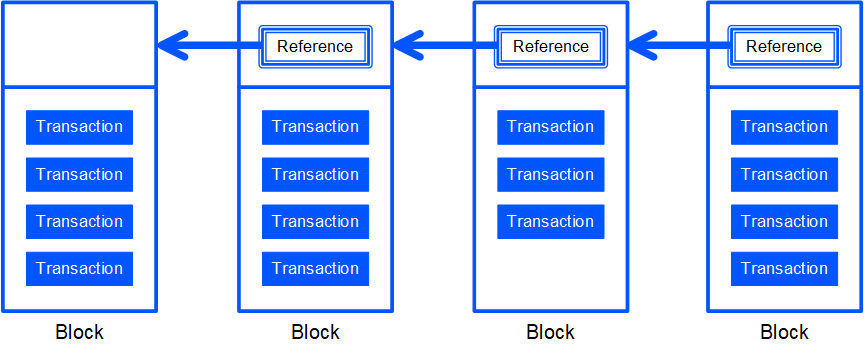
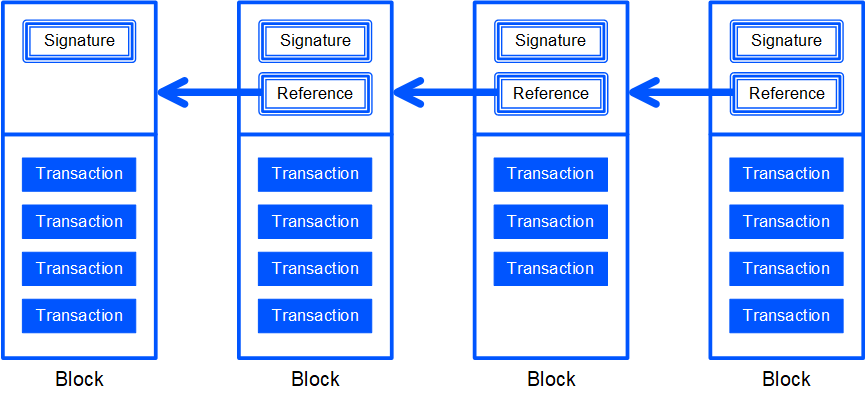
DOC-659

diff --git a/docs/_ru-sidebar-tree.js b/docs/_ru-sidebar-tree.js
@@ -12,13 +12,13 @@ const keepInTouchPath = localePath + 'keep-in-touch/';
 module.exports = {
   [blockchainPath]: [
     {
-      title: 'О блокчейне Waves',
+      title: 'O Waves',
       path: blockchainPath,
     },
-/*    {
-      title: 'Что такое блокчейн',
+    {
+      title: 'Как устроен блокчейн',
       path: blockchainPath + 'blockchain',
-    }, */
+    },
     {
       title: 'Аккаунт',
       path: blockchainPath + 'account',

diff --git a/docs/_en-sidebar-tree.js b/docs/_en-sidebar-tree.js
@@ -12,13 +12,13 @@ const keepInTouchPath = localePath + 'keep-in-touch/';
 module.exports = {
   [blockchainPath]: [
     {
-      title: 'About Waves blockchain',
+      title: 'Why Waves',
       path: blockchainPath,
     },
-/*    {
-      title: 'Blockchain intoduction',
+    {
+      title: 'Waves Basics',
       path: blockchainPath + 'blockchain',
-    }, */
+    },
     {
       title: 'Account',
       path: blockchainPath + 'account',

diff --git a/docs/ru/blockchain/blockchain/readme.md b/docs/ru/blockchain/blockchain/readme.md
@@ -6,24 +6,28 @@
 
 Данные на блокчейне представлены в виде транзакций — записей о действиях, таких как выпуск или перевод криптовалюты, создание или вызов смарт-контракта и т. д.
 
-Транзакции сгруппированы в блоки, и каждый блок содержит хеш данных предыдущего блока. Таким образом, блокчейн состоит из цепочки блоков, связанных с помощью криптографии. Транзакции навсегда остаются в блокчейне в первозданном виде: изменение данных одной транзакции нарушило бы целостность данных в блоке и всех последующих блоках.
+Транзакции сгруппированы в блоки. Кроме транзакций, блок содержит цифровую подпись ноды, которая сгенерировала блок, и хеш данных предыдущего блока — который, в свою очередь, содержит хеш данных предшествующего ему блока, и т. д. Таким образом, блокчейн состоит из цепочки блоков, связанных с помощью криптографии. Каждая транзакция навсегда остается на блокчейне в первозданном виде: изменение транзакции сделало бы невалидным содержащий ее блок и все последующие блоки.
 
 ![](./_assets/blockchain.png)
 
-## Ноды 
+## Ноды
 
-Сеть Waves состоит из сотен нод по всему миру. Нода — компьютер, обслуживающий блокчейн — хранит полную копию блокчейна, проверяет валидность всех транзакций и блоков и синхронизирует данные с другими нодами. Таким образом, данные блокчейна защищены от подделки и от удаления. Запустить свою ноду и присоединиться к сети может любой желающий.
+Сеть Waves состоит из сотен нод по всему миру. Нода — это компьютер, обслуживающий сеть блокчейна. Нода Waves хранит полную копию блокчейна, проверяет валидность всех транзакций и блоков, правильность вычисления хешей и синхронизирует данные с другими нодами. Благодаря этому данные блокчейна защищены от подделки и от удаления. [Запустить свою ноду](/ru/waves-node/how-to-install-a-node/how-to-install-a-node) и присоединиться к сети может любой желающий.
 
 ![](./_assets/nodes-worldwide.png)
 
-Ноды могут участвовать в генерации новых блоков и получать вознаграждение за создание блока и комиссии за транзакции. Чтобы начать генерировать блоки, необходим баланс не менее 1000 WAVES — собственных или полученных в лизинг.
+Ноды могут участвовать в генерации новых блоков и получать [вознаграждение за создание блока](/ru/blockchain/mining/mining-reward) и комиссии за транзакции. Чтобы начать генерировать блоки, необходим баланс не менее 1000 WAVES — собственных или [полученных в лизинг](/ru/blockchain/leasing). Чем больше генерирующий баланс ноды, тем больше шанс получить право на генерацию следующего блока.
 
 ## Аккаунт
 
-Каждая транзакция на блокчейне Waves создается от имени какого-либо аккаунта. У аккаунта есть пара ключей, связанных с помощью криптографии: закрытый ключ, которым аккаунт подписывает транзакции, и открытый ключ, который позволяет проверить достоверность подписи. Для создания аккаунта, хранения ключей и подписания транзакций можно использовать приложения — [Waves.Exchange](https://waves.exchange/), разработанное командой Waves.Exchange, или [Waves Keeper](/ru/ecosystem/waves-keeper/).
+Waves использует модель на основе аккаунта. Каждая транзакция создается от имени какого-либо аккаунта, все активы и данные связаны с аккаунтом. У аккаунта есть пара ключей, связанных с помощью криптографии: закрытый ключ, которым аккаунт подписывает транзакции, и открытый ключ, который позволяет проверить достоверность подписи. [Подробнее об аккаунте](/ru/blockchain/account/)
 
-У аккаунта также есть адрес, на который можно перевести WAVES и другие токены.
+Для создания аккаунта, хранения ключей и подписания транзакций можно использовать приложения: [Waves.Exchange](https://waves.exchange/) — приложение-кошелек, разработанное командой Waves.Exchange, [Waves Keeper](/ru/ecosystem/waves-keeper/) и другие.
+
+![](./_assets/interaction.png)
 
 ## dApp
 
-dApp — это приложение, бэкенд которого работает на блокчейне. Проще говоря, это онлайн-сервис на основе блокчейна. Поэтому нет централизованной базы данных, которую можно было бы взломать или поставить под угрозу. dApps сочетают в себе все преимущества онлайн-сервисов с полным контролем над вашими данными. Каждый может создавать и использовать dApps.
+dApp (decentralized application) — это приложение, бэкенд которого работает на блокчейне. Приложение может хранить на блокчейне данные, а также вызывать смарт-контракт — скрипт, прикрепленный к аккаунту. Преимущество децентрализованных приложений — в надежности хранения данных и прозрачности: любой пользователь может посмотреть код скрипта и результат его вызова.
+
+Чтобы узнать больше о технологиях Waves и получить практические навыки создания децентрализованных приложений, присоединяйтесь к бесплатному курсу [Mastering Web3 with Waves](https://www.coursera.org/learn/mastering-web3-waves) на платформе Coursera.

diff --git a/docs/ru/keep-in-touch/docs-update.md b/docs/ru/keep-in-touch/docs-update.md
@@ -1,10 +1,17 @@
 # Обновления в документации
 
-## Июльские статьи
+## Август
 
 ### Блокчейн Waves
 
-* Обновлена статья [Сети блокчейна: Mainnet, Testnet, Stagenet](/ru/blockchain/blockchain-network/).
+* [O Waves](/ru/blockchain/)
+* [Как устроен блокчейн](/ru/blockchain/blockchain)
+
+## Июль
+
+### Блокчейн Waves
+
+* [Сети блокчейна: Mainnet, Testnet, Stagenet](/ru/blockchain/blockchain-network/)  — <span style="color:green">обновлено</span>
 
 ### Ride
 
@@ -13,7 +20,7 @@
 * [removeByIndex](/ru/ride/functions/built-in-functions/list-functions#removebyindex)
 * [bn256groth16Verify](/ru/ride/functions/built-in-functions/verification-functions#bn256groth16verify)
 
-## Июньские статьи
+## Июнь
 
 ### Разработка приложений на блокчейне
 
@@ -33,7 +40,7 @@
 
 * [Кортеж](/ru/ride/data-types/tuple)
 
-## Майские статьи
+## Май
 
 ### Блокчейн
 
@@ -58,7 +65,7 @@
 * [makeString](/ru/ride/functions/built-in-functions/string-functions#makestring-list-string-string-string)
 * [Функции списка](/ru/ride/functions/built-in-functions/list-functions): `containsElement`, `indexOf`, `lastIndexOf`, `max`, `min`
 
-## Апрельские статьи
+## Апрель
 
 ### Блокчейн
 
@@ -73,7 +80,7 @@
 * [Распространение токена (airdrop)](/ru/building-apps/how-to/assets/airdrop)
 * [Прием платежей](/ru/building-apps/how-to/assets/payment)
 
-## Мартовские статьи
+## Март
 
 ### Блокчейн
 
@@ -94,7 +101,7 @@
 * [функций хеширования](/ru/ride/functions/built-in-functions/hashing-functions) `blake2b256`, `keccak256`, `sha256`;
 * [функций верификации](/ru/ride/functions/built-in-functions/verification-functions) `groth16Verify`, `rsaVerify`, `sigVerify`.
 
-## Февральские статьи
+## Февраль
 
 ### Разработка приложений на блокчейне
 
@@ -111,13 +118,13 @@
 * [calculateAssetId](/ru/ride/functions/built-in-functions/blockchain-functions#calculate)
 * [groth16Verify](/ru/ride/functions/built-in-functions/verification-functions#groth16Verify)
 
-## Январские статьи
+## Январь
 
 ### API & SDK
 
 * [Signer](/ru/building-apps/waves-api-and-sdk/client-libraries/signer) — библиотека для создания, подписания и отправки транзакций.
 
-## Декабрьские статьи
+## Декабрь
 
 ### Ride
 
@@ -154,7 +161,7 @@
   * Структуры транзакций
     * [UpdateAssetInfoTransaction](/ru/ride/structures/transaction-structures/update-asset-info-transaction)
 
-## Ноябрьские статьи
+## Ноябрь
 
 ### Программирование
 
@@ -162,7 +169,7 @@
 * [Создание смарт-аккаунта](/ru/building-apps/smart-contracts/how-to-create-smart-account)
 )
 
-## Октябрьские статьи
+## Октябрь
 
 ### Программирование
 
@@ -195,7 +202,7 @@
 
 * [Глоссарий](/ru/blockchain/glossary)
 
-## Сентябрьские статьи
+## Сентябрь
 
 ### Блокчейн
 

diff --git a/docs/en/keep-in-touch/docs-update.md b/docs/en/keep-in-touch/docs-update.md
@@ -1,10 +1,17 @@
 # Documentation Updates
 
-## July Articles
+## August
 
-### Blockchain Waves
+### Blockchain
 
-* Updated the [Blockchain Networks: Mainnet, Testnet, Stagenet](/en/blockchain/blockchain-network/) article.
+* [Why Waves](/en/blockchain/)
+* [Waves Basics](/en/blockchain/blockchain)
+
+## July
+
+### Blockchain
+
+* [Blockchain Networks: Mainnet, Testnet, Stagenet](/en/blockchain/blockchain-network/)  — <span style="color:green">updated</span>
 
 ### Building Apps
 
@@ -19,7 +26,7 @@ Added guides:
 * [removeByIndex](/en/ride/functions/built-in-functions/list-functions#removebyindex)
 * [bn256groth16Verify](/en/ride/functions/built-in-functions/verification-functions#bn256groth16verify)
 
-## June Articles
+## June
 
 ### Building Apps
 
@@ -39,7 +46,7 @@ Tools:
 
 * [Tuple](/en/ride/data-types/tuple)
 
-## May Articles
+## May
 
 ### Blockchain
 
@@ -63,7 +70,7 @@ Tools:
 * [makeString](/en/ride/functions/built-in-functions/string-functions#makestring-list-string-string-string)
 * [List functions](/en/ride/functions/built-in-functions/list-functions): `containsElement`, `indexOf`, `lastIndexOf`, `max`, `min`
 
-## April articles
+## April
 
 ### Blockchain
 
@@ -78,7 +85,7 @@ Added how-to guides:
 * [Airdrop](/en/building-apps/how-to/assets/airdrop)
 * [Receiving Payments](/en/building-apps/how-to/assets/payment)
 
-## March Articles
+## March
 
 ### Blockchain
 
@@ -99,7 +106,7 @@ Updated the the following descriptions:
 * [hashing functions](/en/ride/functions/built-in-functions/hashing-functions): `blake2b256`, `keccak256`, `sha256`;
 * [verification functions](/en/ride/functions/built-in-functions/verification-functions): `groth16Verify`, `rsaVerify`, `sigVerify`.
 
-## February Articles
+## February
 
 ### Building Apps
 
@@ -116,7 +123,7 @@ Added how-to guides:
 * [calculateAssetId](/en/ride/functions/built-in-functions/blockchain-functions#calculate)
 * [groth16Verify](/en/ride/functions/built-in-functions/verification-functions#groth16Verify)
 
-## December Articles
+## December
 
 ### Blockchain network
 
@@ -159,14 +166,14 @@ Added how-to guides:
 
 * [Signer](/en/building-apps/waves-api-and-sdk/client-libraries/signer)
 
-## November articles
+## November
 
 ### Smart contracts
 
 * [What is a Smart Account](/en/building-apps/smart-contracts/what-is-smart-account)
 * [Creating smart account](/en/building-apps/smart-contracts/how-to-create-smart-account)
 
-## October articles
+## October
 
 ### Programming
 
@@ -198,7 +205,7 @@ Added how-to guides:
 
 * [Glossary](/en/blockchain/glossary)
 
-## September articles
+## September
 
 ### Blockchain
 
@@ -221,7 +228,7 @@ Added how-to guides:
 * Variables
   * [Built-in variables](/en/ride/variables/built-in-variables)
 
-### Waves node
+### Waves Node
 
 * [Node configuration](/en/waves-node/node-configuration) — <span style="color:green">updated</span>
 
